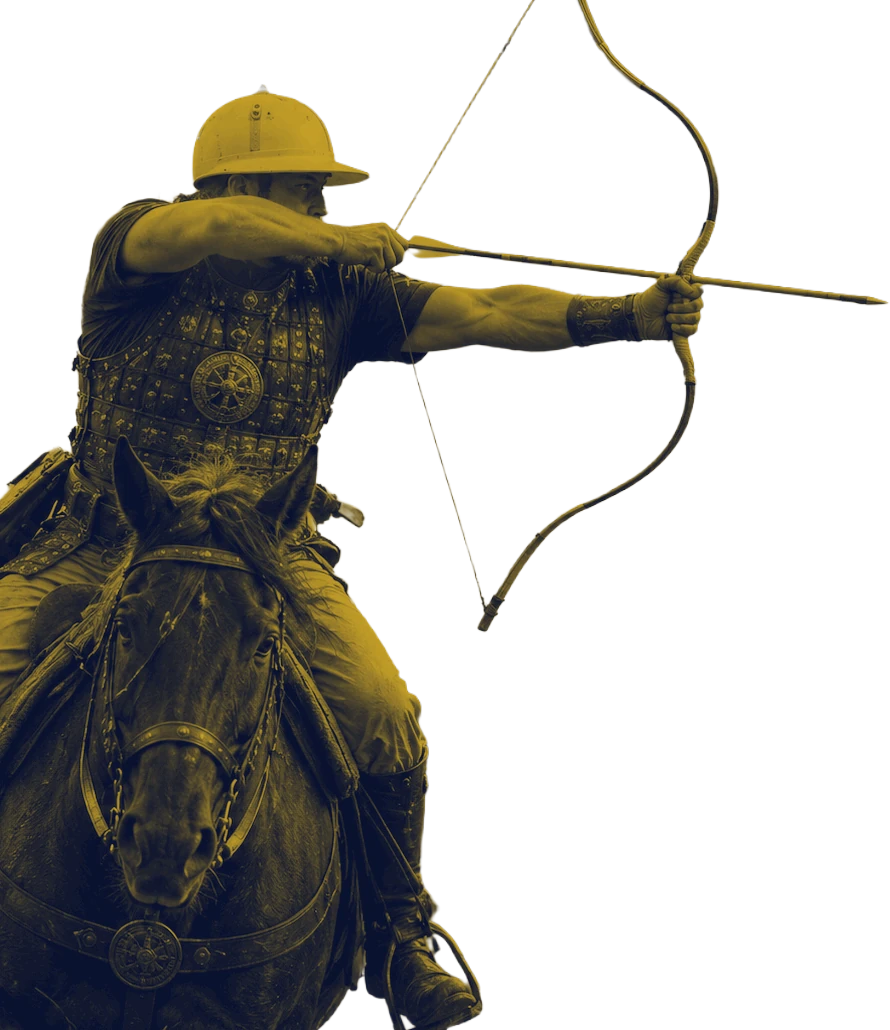
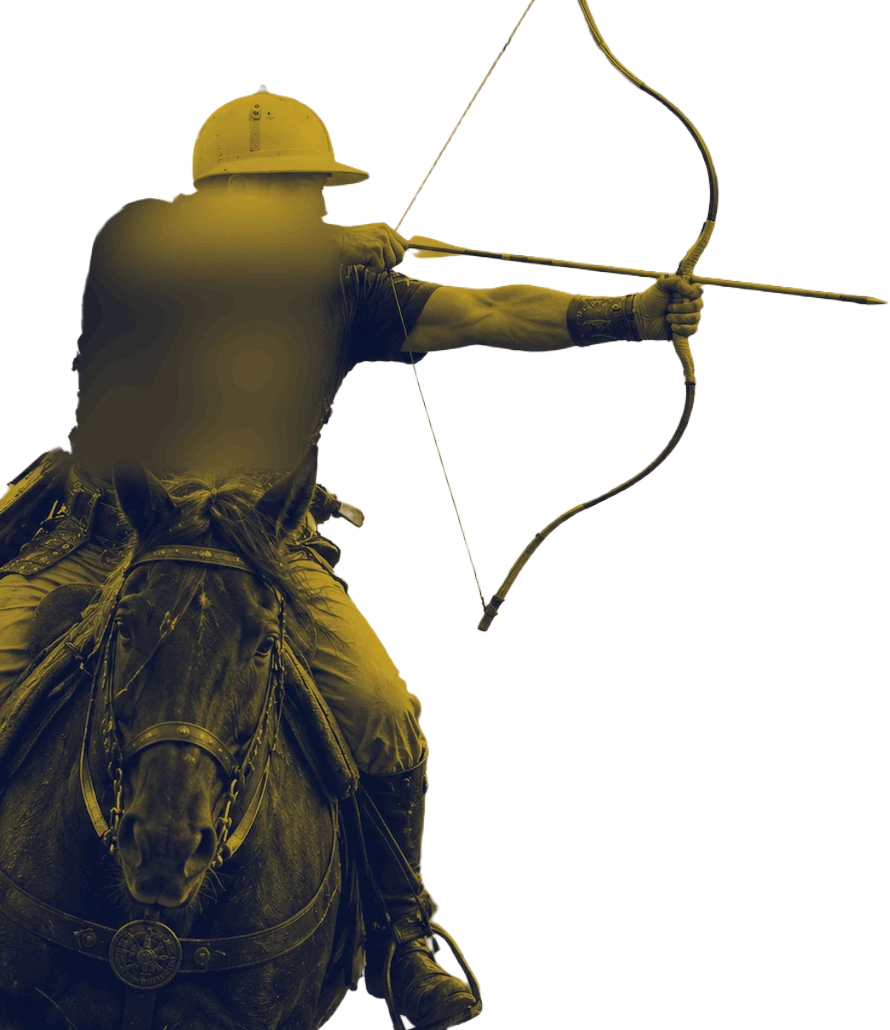
Add files via upload

Changed region(s): [[0.0303, 0.1553, 0.3944, 0.466]]

diff --git a/sw.js b/sw.js
@@ -1,6 +1,6 @@
 // Dispatch service worker — network-first, falls back to cache when offline.
 // Bump CACHE_NAME whenever app files change to force a refresh.
-const CACHE_NAME = "dispatch-v15";
+const CACHE_NAME = "dispatch-v16";
 const ASSETS = [
   "./",
   "./index.html",
